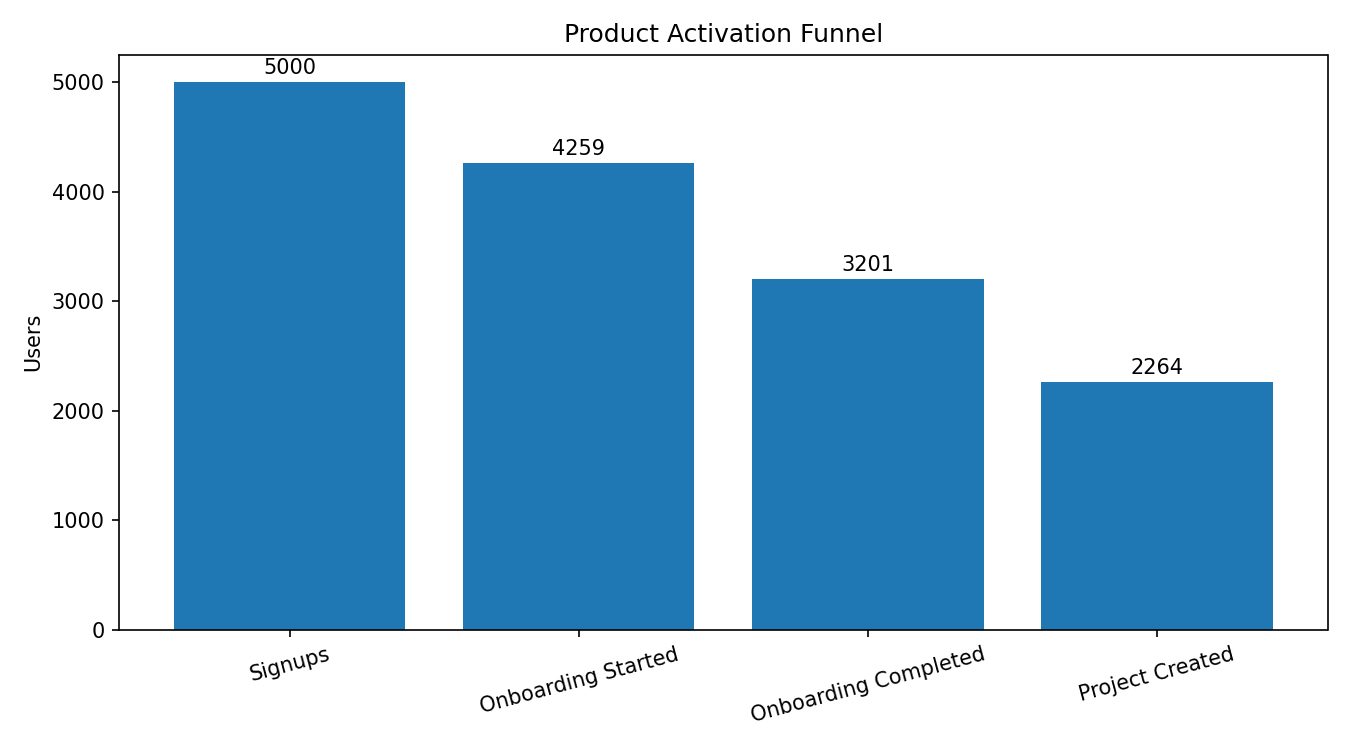
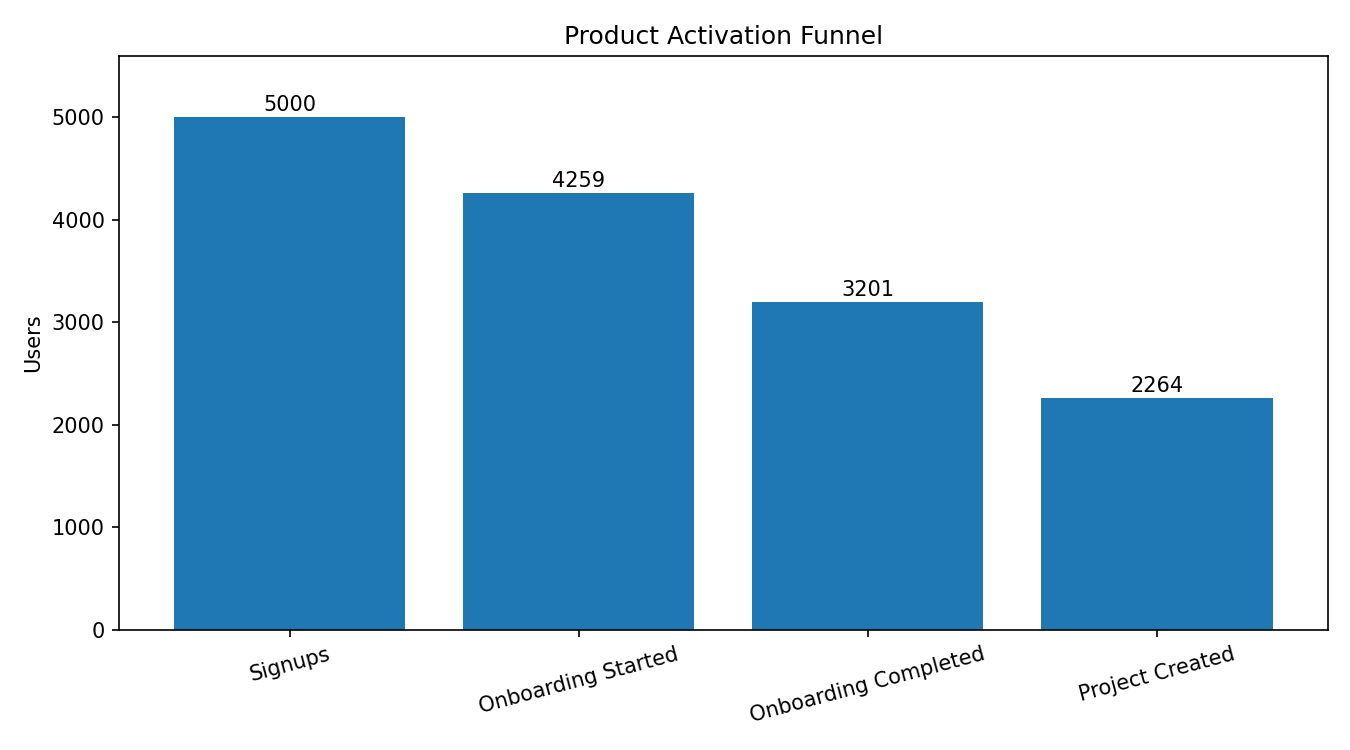
make activation analysis reproducible and correct experiment baseline

diff --git a/python/visualizations.py b/python/visualizations.py
@@ -1,111 +1,78 @@
-import pandas as pd
-import matplotlib.pyplot as plt
 from pathlib import Path
 
+import matplotlib.pyplot as plt
+import pandas as pd
 
-OUTPUT_DIR = Path("outputs/charts")
-OUTPUT_DIR.mkdir(parents=True, exist_ok=True)
 
+root = Path(__file__).resolve().parents[1]
+output_dir = root / "outputs/charts"
+output_dir.mkdir(parents=True, exist_ok=True)
 
-# Activation funnel
-funnel = pd.DataFrame({
-    "stage": [
-        "Signups",
-        "Onboarding Started",
-        "Onboarding Completed",
-        "Project Created"
-    ],
-    "users": [5000, 4259, 3201, 2264]
-})
+users = pd.read_csv(root / "data/users.csv", parse_dates=["signup_date"])
+events = pd.read_csv(root / "data/events.csv", parse_dates=["event_timestamp"])
+
+event_users = {
+    name: set(group["user_id"])
+    for name, group in events.groupby("event_name")
+}
+
+# Count unique users, in funnel order.
+stages = ["signup", "onboarding_started", "onboarding_completed", "project_created"]
+counts = [len(event_users.get(stage, set())) for stage in stages]
+labels = ["Signups", "Onboarding Started", "Onboarding Completed", "Project Created"]
 
 plt.figure(figsize=(9, 5))
-plt.bar(funnel["stage"], funnel["users"])
+plt.bar(labels, counts)
 plt.title("Product Activation Funnel")
 plt.ylabel("Users")
 plt.xticks(rotation=15)
-
-for i, value in enumerate(funnel["users"]):
-    plt.text(i, value + 70, str(value), ha="center")
-
+plt.ylim(0, max(counts) * 1.12)
+for i, count in enumerate(counts):
+    plt.text(i, count + 60, str(count), ha="center")
 plt.tight_layout()
-plt.savefig(
-    OUTPUT_DIR / "activation_funnel.png",
-    dpi=150
-)
+plt.savefig(output_dir / "activation_funnel.png", dpi=150)
 plt.close()
 
+# A dashboard view only counts in the 30-40 day retention window.
+views = events[events["event_name"] == "dashboard_viewed"].merge(
+    users[["user_id", "signup_date"]], on="user_id"
+)
+age = views["event_timestamp"] - views["signup_date"]
+retained_ids = set(views.loc[
+    (age >= pd.Timedelta(days=30)) & (age < pd.Timedelta(days=41)), "user_id"
+])
+users["retained"] = users["user_id"].isin(retained_ids)
 
-# Retention by early product behavior
-behavior = pd.DataFrame({
-    "behavior": [
-        "Invited Teammate",
-        "Connected Integration",
-        "Created Report"
-    ],
-    "retention_rate": [
-        56.21,
-        42.11,
-        39.91
-    ]
-})
+behaviors = [
+    ("Invited Teammate", "teammate_invited"),
+    ("Connected Integration", "integration_connected"),
+    ("Created Report", "report_created"),
+]
+rates = [
+    100 * users.loc[users["user_id"].isin(event_users.get(event, set())), "retained"].mean()
+    for _, event in behaviors
+]
 
 plt.figure(figsize=(8, 5))
-plt.bar(
-    behavior["behavior"],
-    behavior["retention_rate"]
-)
-
+plt.bar([label for label, _ in behaviors], rates)
 plt.title("D30 Retention by Early Product Behavior")
-plt.ylabel("D30 Retention Rate (%)")
-plt.ylim(0, 65)
-
-for i, value in enumerate(behavior["retention_rate"]):
-    plt.text(
-        i,
-        value + 1,
-        f"{value:.1f}%",
-        ha="center"
-    )
-
+plt.ylabel("Day 30-40 Retention Rate (%)")
+plt.ylim(0, max(rates) * 1.18)
+for i, rate in enumerate(rates):
+    plt.text(i, rate + 1, f"{rate:.1f}%", ha="center")
 plt.tight_layout()
-plt.savefig(
-    OUTPUT_DIR / "retention_by_behavior.png",
-    dpi=150
-)
+plt.savefig(output_dir / "retention_by_behavior.png", dpi=150)
 plt.close()
 
-
-# Retention by signup cohort
-cohort = pd.DataFrame({
-    "month": ["Jan", "Feb", "Mar", "Apr", "May", "Jun"],
-    "retention_rate": [
-        18.77,
-        19.82,
-        17.54,
-        18.14,
-        15.66,
-        17.27
-    ]
-})
-
+cohorts = users.groupby(users["signup_date"].dt.to_period("M"))["retained"].mean() * 100
 plt.figure(figsize=(8, 5))
-plt.plot(
-    cohort["month"],
-    cohort["retention_rate"],
-    marker="o"
-)
-
-plt.title("D30 Retention by Signup Month")
+plt.plot(cohorts.index.astype(str), cohorts.values, marker="o")
+plt.title("Day 30-40 Retention by Signup Month")
 plt.xlabel("Signup Month")
-plt.ylabel("D30 Retention Rate (%)")
-plt.ylim(10, 25)
-
+plt.ylabel("Retention Rate (%)")
+plt.ylim(0, max(25, cohorts.max() * 1.2))
 plt.tight_layout()
-plt.savefig(
-    OUTPUT_DIR / "retention_by_cohort.png",
-    dpi=150
-)
+plt.savefig(output_dir / "retention_by_cohort.png", dpi=150)
 plt.close()
 
-
-print("Charts created successfully.")
+print("Charts created from data/users.csv and data/events.csv")

diff --git a/python/experiment_analysis.py b/python/experiment_analysis.py
@@ -1,9 +1,26 @@
 from math import ceil
+from pathlib import Path
+
+import pandas as pd
 from scipy.stats import norm
 
-# Baseline D30 retention among project creators
-# who did not invite a teammate.
-baseline_rate = 0.2624
+# Both variants include everyone who creates a first project.
+root = Path(__file__).resolve().parents[1]
+users = pd.read_csv(root / "data/users.csv", parse_dates=["signup_date"])
+events = pd.read_csv(root / "data/events.csv", parse_dates=["event_timestamp"])
+
+projects = events[events["event_name"] == "project_created"]
+eligible = users[users["user_id"].isin(projects["user_id"])].copy()
+
+views = events[events["event_name"] == "dashboard_viewed"].merge(
+    eligible[["user_id", "signup_date"]], on="user_id"
+)
+days_since_signup = views["event_timestamp"] - views["signup_date"]
+retained_ids = set(views.loc[
+    (days_since_signup >= pd.Timedelta(days=30))
+    & (days_since_signup < pd.Timedelta(days=41)), "user_id"
+])
+baseline_rate = eligible["user_id"].isin(retained_ids).mean()
 
 # Target = 5 percentage point absolute improvement in D30 retention.
 mde = 0.05
@@ -36,6 +53,7 @@ total_sample_size = sample_size_per_variant * 2
 print("Experiment Design")
 print("-----------------")
 print(f"Baseline rate: {baseline_rate:.2%}")
+print(f"Eligible project creators in dataset: {len(eligible)}")
 print(f"Expected treatment rate: {treatment_rate:.2%}")
 print(f"Minimum detectable effect: {mde:.2%}")
 print(f"Alpha: {alpha}")

diff --git a/README.md b/README.md
@@ -274,15 +274,15 @@ This acts as a leading indicator showing whether the treatment actually changes 
 
 - Report creation rate
 - Integration connection rate
-- Cancellation or uninstall rate
+- Invite prompt dismissal rate (requires a new event)
 
 ### Experiment Parameters
 
-Baseline D30 retention among project creators who did not invite a teammate: **26.24%**
+Baseline D30 retention among **all eligible project creators**: **39.36%**
 
 Minimum detectable effect: **+5 percentage points**
 
-Expected treatment retention: **31.24%**
+Expected treatment retention: **44.36%**
 
 Statistical assumptions:
 
@@ -290,11 +290,11 @@ Statistical assumptions:
 - Statistical power: 80%
 - Two-sided test
 
-Required sample size: **1,285 users per variant**
+Required sample size: **1,527 users per variant**
 
-Total experiment sample: **2,570 users**
+Total experiment sample: **3,054 users**
 
-The experiment should run until the required sample is reached and users have had enough time to complete the retention observation window.
+The 26.24% retention rate for non-inviters is an observational segment, not the control baseline: randomization would include all project creators in both variants. The sample size is a normal approximation for two independent proportions. At the synthetic dataset's pace of 2,264 project creators in six months, enrollment would take roughly eight months; wait a further 40 days after the last signup for complete observation. Do not stop when the dashboard first shows a low p-value.
 
 ---
 
@@ -324,6 +324,7 @@ product-activation-retention-analysis/
 │   ├── users.csv
 │   └── events.csv
 ├── sql/
+│   ├── 00_setup.sql
 │   ├── 01_kpis.sql
 │   ├── 02_funnel.sql
 │   ├── 03_retention.sql
@@ -339,6 +340,21 @@ product-activation-retention-analysis/
 │       └── retention_by_cohort.png
 └── requirements.txt
 ```
+
+---
+
+## Reproduce the analysis
+
+From the repository root, install the four packages in `requirements.txt` and run:
+
+```bash
+python -m pip install -r requirements.txt
+python python/generate_data.py
+python python/visualizations.py
+python python/experiment_analysis.py
+```
+
+`generate_data.py` uses seed 42 and overwrites the two CSVs. The chart script reads the CSVs and overwrites the three chart images; its values are calculated from the data. To run the MySQL 8 queries, create a database, run `sql/00_setup.sql` in it, and import the two CSV files with MySQL Workbench's Table Data Import Wizard (match the existing column names and types). Run `sql/01_kpis.sql` through `sql/04_activation_analysis.sql` in order. The CSVs and charts in this repository are the outputs from seed 42.
 
 ---
 
